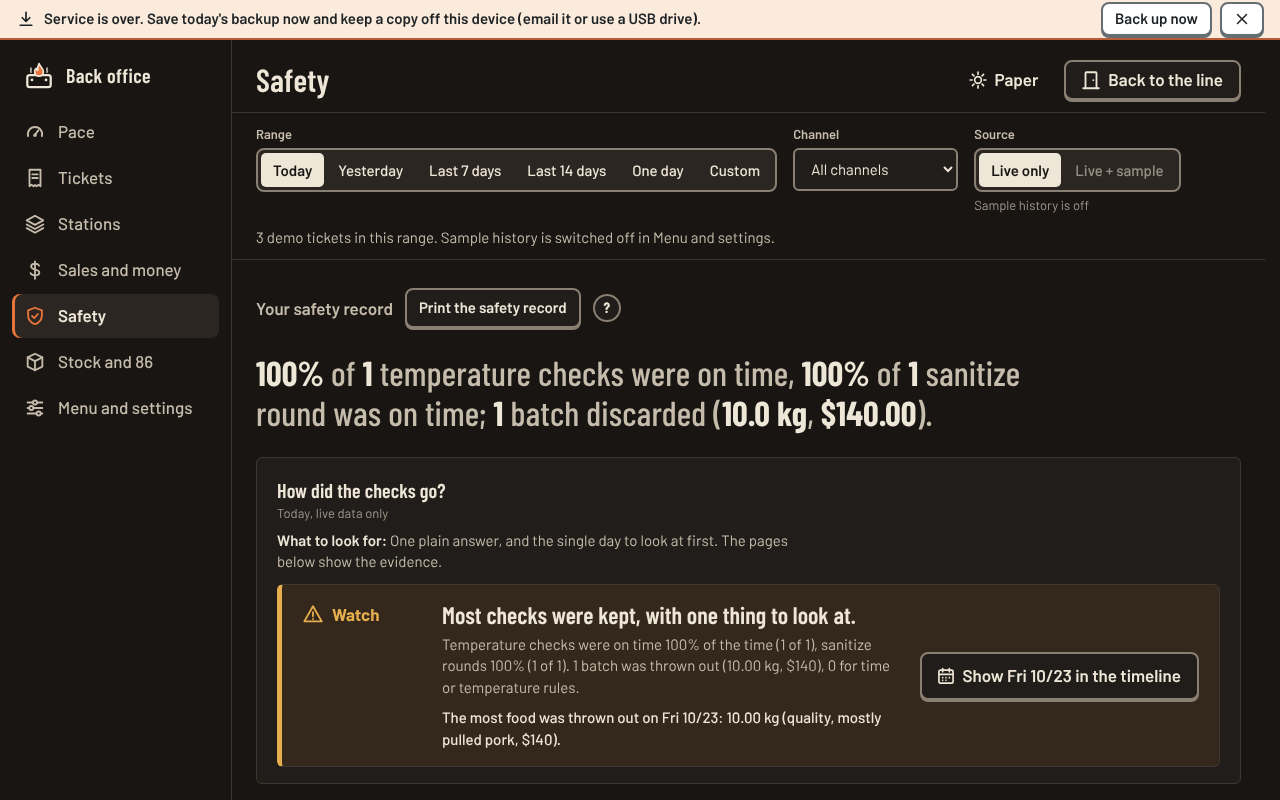
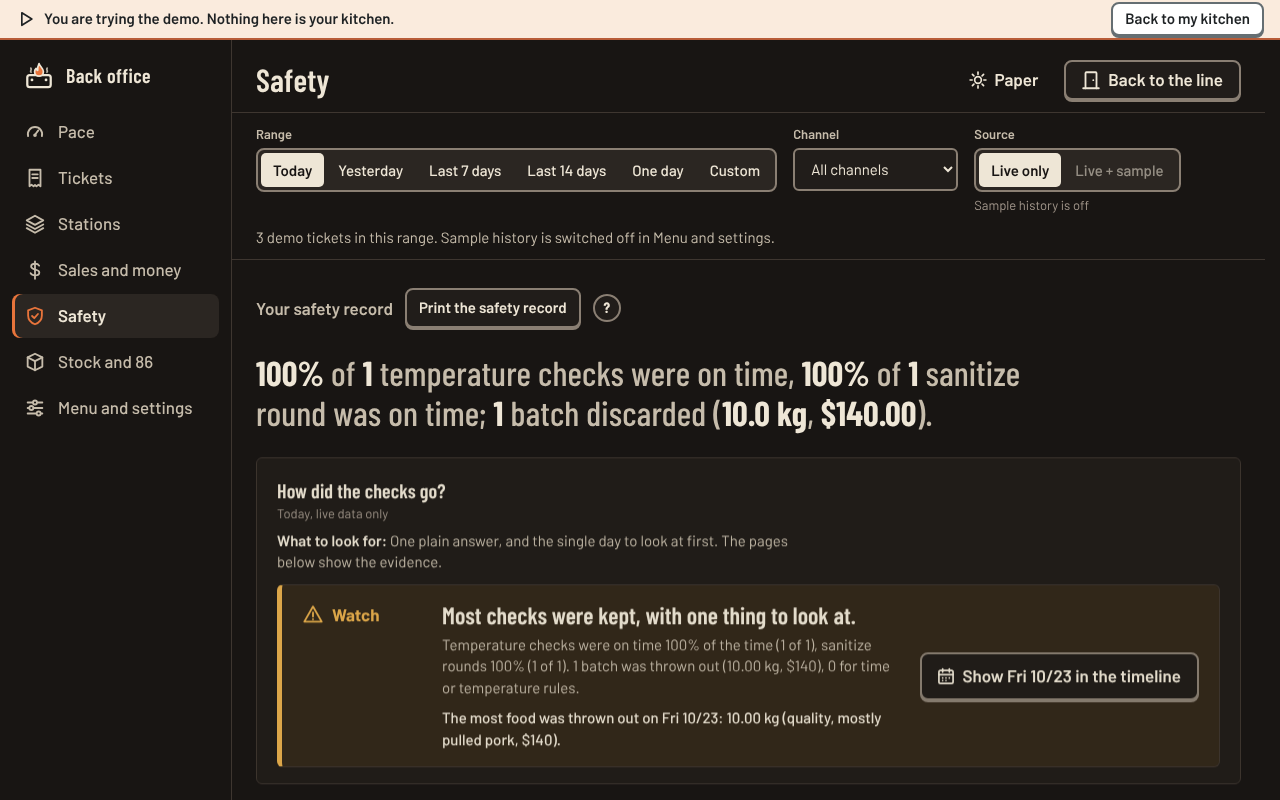
Back office round 7: owner's week fixes, sales CSV, weekday jump, colour-blind dashes, wording
Claude-Session: https://claude.ai/code/session_01JrpY4zjELL5yN4qv9BNMYQ

diff --git a/src/js/84-office-data.js b/src/js/84-office-data.js
@@ -471,7 +471,7 @@
         nameField, zoneField, catField,
         h('div', { class: 'od-item-actions' }, archChip, archBtn)),
       h('div', { class: 'od-item-grid' },
-        h('div', { class: 'od-block' }, price.el, h('div', { class: 'od-lab' }, 'How it is cooked'), trackSeg, h('p', { class: 'od-hint' }, 'One tap: done when it is plated, like tea or slaw. Start, then done: the cook taps Start, and Done when it is finished, like brisket or fries.')),
+        h('div', { class: 'od-block' }, price.el, h('div', { class: 'od-lab' }, 'How it is cooked'), trackSeg, h('p', { class: 'od-hint' }, 'One tap: done when it is plated, like a drink or a cold side. Start, then done: the cook taps Start, and Done when it is finished, like a roast or fries.')),
         h('div', { class: 'od-block' }, prep.el, confSeg, learnedEl),
         h('div', { class: 'od-block od-block-bom' }, bom.el)),
       status.el);
@@ -1535,6 +1535,18 @@
     const repRow = h('div', { class: 'od-actions od-csv' }, h('span', { class: 'od-lab od-inline' }, 'Pilot report'), whenSel, h('label', { class: 'od-inline' }, 'Cuts counted ', cutsIn),
       btn('Show report', { icon: 'receipt', cls: 'btn-sm', onClick: showReport }), btn('Download CSV', { icon: 'download', cls: 'btn-sm', onClick: saveReport }));
     repRow.dataset.pilot = 'report';
+    // Saves the sales-by-day file for an accountant: one row per day with sales, tax, tips and how it was paid.
+    async function downloadSalesCsv() {
+      const BPs = SB.office && SB.office.backupPure;
+      if (!BPs) { exStatus.bad('Could not make the sales file. Reload and try again.'); return; }
+      const s = stateNow();
+      const text = BPs.salesCsv(s, s.settings.service && s.settings.service.dayStartHour);
+      const fname = 'smokebox-sales-by-day' + (SB.store.mode && SB.store.mode() === 'demo' ? '-demo' : '') + '-' + todayKey() + '.csv';
+      const days = Math.max(0, text.split('\r\n').length - 3);
+      const res = await saveFile(fname, text, 'text/csv');
+      if (res.how === 'host' || res.how === 'browser') exStatus.ok((res.how === 'host' ? 'Saved ' : 'Download started: ') + fname + (days ? ' (' + days + ' ' + U.plural(days, 'day') + ' of sales).' : ': it has only the column names because no order has been paid yet.'));
+      else reportSave(res, fname, text, 'sales file');
+    }
     const csvBtns = [['tickets', 'Tickets'], ['items', 'Items'], ['orders', 'Orders'], ['events', 'Events'], ['batches', 'Batches']].map(([k, l]) => {
       // Each spreadsheet button downloads its own table.
       const b = btn(l, { icon: 'download', cls: 'btn-sm', onClick: () => downloadCsv(k, l.toLowerCase()) });
@@ -1542,6 +1554,9 @@
       b.dataset.csv = k;
       return b;
     });
+    const salesBtn = btn('Sales by day (for your accountant)', { icon: 'download', cls: 'btn-sm', onClick: downloadSalesCsv });
+    salesBtn.dataset.csv = 'sales';
+    csvBtns.unshift(salesBtn);
     // Says when the last backup was made on this device, so a stale one is easy to spot.
     const BP = SB.office && SB.office.backupPure;
     const lastLine = para('', 'od-p od-lastbackup');
@@ -1658,10 +1673,10 @@
     // Danger zone: two reset buttons, each opening a box that asks for a typed word before it will act.
     pn.body.appendChild(h('h3', { class: 'od-sub od-danger-h', id: undefined }, 'Danger zone: erase data'));
     const resetStatus = statusLine();
-    const keep = SB.ui.toggle({ label: 'Keep my dishes, settings and PIN when I clear live data', checked: true });
-    const resetLiveBtn = btn('Reset live data', { icon: 'trash', cls: 'btn-danger' });
+    const keep = SB.ui.toggle({ label: 'Keep my dishes, settings and PIN when I erase live data', checked: true });
+    const resetLiveBtn = btn('Erase live data', { icon: 'trash', cls: 'btn-danger' });
     resetLiveBtn.dataset.action = 'reset-live';
-    const resetAllBtn = btn('Reset everything', { icon: 'trash', cls: 'btn-danger' });
+    const resetAllBtn = btn('Erase everything', { icon: 'trash', cls: 'btn-danger' });
     resetAllBtn.dataset.action = 'reset-all';
     const dangerBox = h('div', { class: 'od-danger-box', hidden: true, role: 'group', 'aria-label': 'Confirm erasing data' });
     // Shows the confirm box: what will be erased, a field to type the word into, and a button that stays off until it matches.
@@ -1691,14 +1706,14 @@
     resetLiveBtn.addEventListener('click', () => {
       const s = stateNow(), k = keep.getValue();
       askTyped({
-        opener: resetLiveBtn, title: 'Clear live data?', word: 'RESET', label: 'Clear live data',
+        opener: resetLiveBtn, title: 'Erase live data?', word: 'ERASE', label: 'Erase live data',
         lines: ['This clears ' + U.fmtNum(s.tickets.length) + ' ' + U.plural(s.tickets.length, 'ticket') + ', ' + U.fmtNum(SB.engine.allEvents(s).length) + ' saved records and ' + U.fmtNum(s.batches.length) + ' ' + U.plural(s.batches.length, 'batch', 'batches') + ' on this device, including any practice orders, and sets the clock back to real time.',
           k ? 'Your dishes, ingredient edits, limits, pacing and PIN stay as they are.' : 'It also puts every setting, dish edit and the PIN back to the starter values.',
           'There is no undo. Back up first if you might want this data.'],
         // Clears the live data after the word was typed.
         run: () => {
           const rep = SB.store.resetLive({ keepSettings: k, starter: false });
-          if (rep === 'ok') { resetStatus.ok('Live data cleared. The board is empty' + (k ? '; your settings were kept.' : '; settings are back to the starter values.')); SB.ui.toast('Live data cleared.', { tone: 'ok' }); }
+          if (rep === 'ok') { resetStatus.ok('Live data erased. The board is empty' + (k ? '; your settings were kept.' : '; settings are back to the starter values.')); SB.ui.toast('Live data erased.', { tone: 'ok' }); }
           else resetStatus.bad(SB.engine.describe(rep, (SB.store.lastResult() || {}).info, (stateNow() || {}).settings));
         },
       });
@@ -1709,7 +1724,7 @@
       askTyped({
         opener: resetAllBtn, title: 'Erase everything on this device?', word: 'ERASE', label: 'Erase everything',
         lines: ['This erases everything Smokebox stored on this device: ' + U.fmtNum(s.tickets.length) + ' ' + U.plural(s.tickets.length, 'ticket') + ', ' + U.fmtNum(s.batches.length) + ' ' + U.plural(s.batches.length, 'batch', 'batches') + ', your dishes and ingredient edits, every setting and the PIN. The board starts empty.',
-          'Your Day or Night, Ember or Paper and text-size choices are kept.', 'There is no undo. Back up first if you might want any of it back.'],
+          'Your display choices (themes and text size) are kept.', 'There is no undo. Back up first if you might want any of it back.'],
         // Erases everything after the word was typed.
         run: () => {
           const rep = SB.store.reset();
@@ -1719,7 +1734,7 @@
       });
     });
     pn.body.append(
-      para('Clearing live data removes tickets, records and batches. Resetting everything also puts the dishes, ingredients and every setting back to the starter values. Neither can be undone, so back up first (card 1 above).', 'od-p'),
+      para('Erasing live data removes tickets, records and batches. Erasing everything also puts the dishes, ingredients and every setting back to the starter values. Neither can be undone, so back up first (card 1 above).', 'od-p'),
       h('div', { class: 'od-toggle-row' }, keep),
       h('div', { class: 'od-actions' }, resetLiveBtn, resetAllBtn), dangerBox, resetStatus.el);
 

diff --git a/src/js/88-office-backup.js b/src/js/88-office-backup.js
@@ -36,7 +36,7 @@
     const orders = Array.isArray(s.orders) ? s.orders.length : 0;
     const tickets = Array.isArray(s.tickets) ? s.tickets.length : 0;
     const mode = res.mode === 'demo' ? 'demo' : 'real';
-    const kindText = mode === 'demo' ? 'Practice kitchen (the demo)' : 'Your own kitchen';
+    const kindText = mode === 'demo' ? 'Demo kitchen' : 'Your own kitchen';
     const pin = s.settings && s.settings.office && s.settings.office.pinHash ? 'Set (this device will ask for it)' : 'Not set';
     const rows = [];
     if (isNum(res.savedAt)) rows.push(['Saved', U.fmtDateShort(U.dateKey(res.savedAt)) + ', ' + U.fmtTime(res.savedAt)]);
@@ -47,9 +47,42 @@
     rows.push(['Manager PIN', pin]);
     const wrongKitchen = !!storeMode && mode !== storeMode;
     const refusal = wrongKitchen
-      ? (mode === 'demo' ? 'This backup comes from the practice kitchen (the demo), not from your own kitchen, so it cannot be restored here.' : 'This backup comes from a real kitchen, so it cannot be restored into the practice kitchen.')
+      ? (mode === 'demo' ? 'This backup comes from the demo kitchen, not from your own kitchen, so it cannot be restored here.' : 'This backup comes from a real kitchen, so it cannot be restored into the demo kitchen.')
       : '';
     return { rows, wrongKitchen, kindText, refusal };
+  }
+
+
+  // Quotes one value for a CSV cell: wraps it in quotes when it holds a comma, quote or line break.
+  function csvCell(v) {
+    const t = v == null ? '' : String(v);
+    return /[",\n\r]/.test(t) ? '"' + t.replace(/"/g, '""') + '"' : t;
+  }
+  // Dollars as plain digits with two decimals ("12.40"), with no dollar sign or thousands commas, so a spreadsheet adds them up.
+  const plainMoney = (v) => (isNum(v) ? (Math.round(v * 100) / 100).toFixed(2) : '0.00');
+
+  // The sales-by-day CSV for an accountant, from the saved state: one row per service day with paid orders, then a Total row.
+  // Columns: Date, Orders paid, Sales (after discounts), Discounts given, Tax, Tips, Total collected, then collected by Cash, Card and Other.
+  // Paid orders count on the service day they were paid; voided and open orders are left out.
+  function salesCsv(state, dayStartHour) {
+    const dsh = isNum(dayStartHour) ? dayStartHour : U.DAY_START_HOUR;
+    const days = {};
+    const orders = state && Array.isArray(state.orders) ? state.orders : [];
+    orders.forEach((o) => {
+      if (!o || o.status !== 'paid' || !isNum(o.paidAt) || !o.totals) return;
+      const day = U.serviceDate(o.paidAt, dsh);
+      const d = days[day] || (days[day] = { orders: 0, sales: 0, discounts: 0, tax: 0, tips: 0, total: 0, cash: 0, card: 0, other: 0 });
+      const T = o.totals, tip = isNum(o.tip) ? o.tip : 0;
+      const collected = (isNum(T.total) ? T.total : 0) + tip;
+      d.orders++; d.sales += (T.subtotal || 0) - (T.discount || 0); d.discounts += T.discount || 0; d.tax += T.tax || 0; d.tips += tip; d.total += collected;
+      d[o.method === 'cash' ? 'cash' : o.method === 'card' ? 'card' : 'other'] += collected;
+    });
+    const head = ['Date', 'Orders paid', 'Sales (after discounts)', 'Discounts given', 'Tax', 'Tips', 'Total collected', 'Collected in cash', 'Collected by card', 'Collected other'];
+    const sum = { orders: 0, sales: 0, discounts: 0, tax: 0, tips: 0, total: 0, cash: 0, card: 0, other: 0 };
+    // One CSV line for a day or for the totals.
+    const line = (label, d) => [label, d.orders, plainMoney(d.sales), plainMoney(d.discounts), plainMoney(d.tax), plainMoney(d.tips), plainMoney(d.total), plainMoney(d.cash), plainMoney(d.card), plainMoney(d.other)].map(csvCell).join(',');
+    const rows = Object.keys(days).sort().map((k) => { Object.keys(sum).forEach((f) => { sum[f] += days[k][f]; }); return line(k, days[k]); });
+    return [head.map(csvCell).join(',')].concat(rows, rows.length ? [line('Total', sum)] : []).join('\r\n') + '\r\n';
   }
 
   // True when the typed text is the confirming word (any capitals, spaces around it ignored).
@@ -57,5 +90,5 @@
     return String(typed == null ? '' : typed).trim().toLowerCase() === String(word || 'reset').toLowerCase();
   }
 
-  O.backupPure = { backupFreshness, describeBackup, resetWordOk };
+  O.backupPure = { backupFreshness, describeBackup, resetWordOk, salesCsv };
 })(typeof globalThis !== 'undefined' ? globalThis : window);

diff --git a/src/js/50-charts.js b/src/js/50-charts.js
@@ -338,6 +338,14 @@
   const WD = ['Sun', 'Mon', 'Tue', 'Wed', 'Thu', 'Fri', 'Sat'];
   // Short date label such as "Fri 10/16".
   const dateShort = (ts) => { const d = new Date(ts); return WD[d.getDay()] + ' ' + (d.getMonth() + 1) + '/' + d.getDate(); };
+  // With three or more plain lines the colors alone are not enough for a colour-blind reader, so the third and fourth
+  // line get a dotted and a dashed pattern. Bands, areas, stacked charts and charts with fewer lines stay solid.
+  function autoDash(spec, s, i) {
+    const list = Array.isArray(spec.series) ? spec.series : [];
+    const plain = list.filter((x) => x && x.kind !== 'band' && !x.area).length;
+    if (spec.stacked || s.area || s.kind === 'band' || plain < 3) return null;
+    return [null, null, '2 4', '9 4'][i % 4];
+  }
   // Gram axis label: "850 g" below a thousand, "1.5 kg" from there.
   const fmtGAxis = (v) => (!isNum(v) ? '-' : U.units && U.units.weight === 'lb' && U.weightText ? U.weightText(v) : Math.abs(v) >= 1000 ? trim0((v / 1000).toFixed(1)) + ' kg' : Math.round(v) + ' g');
 
@@ -1011,7 +1019,7 @@
     const s = S('svg', { class: 'ch-sw', width: it.kind === 'line' ? 18 : 12, height: 12, viewBox: it.kind === 'line' ? '0 0 18 12' : '0 0 12 12', 'aria-hidden': 'true', focusable: 'false' });
     const fill = 'fill:' + it.css;
     if (it.kind === 'line') {
-      s.appendChild(S('line', { x1: 1, y1: 6, x2: 17, y2: 6, style: 'stroke:' + it.css + ';stroke-width:2;stroke-linecap:round', 'stroke-dasharray': it.dash ? '4 3' : null }));
+      s.appendChild(S('line', { x1: 1, y1: 6, x2: 17, y2: 6, style: 'stroke:' + it.css + ';stroke-width:2;stroke-linecap:round', 'stroke-dasharray': it.dash || null }));
       if (it.dot) s.appendChild(S('circle', { cx: 9, cy: 6, r: 3, style: fill + ';stroke:var(--ch-surface);stroke-width:1.5' }));
     } else if (it.kind === 'ring') {
       s.appendChild(S('circle', { cx: 6, cy: 6, r: 4, style: 'fill:var(--ch-surface);stroke:' + it.css + ';stroke-width:2' }));
@@ -1238,7 +1246,7 @@
       let sorted = true; for (let k = 1; k < pts.length; k++) if (pts[k].x < pts[k - 1].x) { sorted = false; break; }
       if (!sorted) pts.sort((a, b) => a.x - b.x);
       const id = s.id != null ? String(s.id) : 'series' + i;
-      return { id, name: s.name != null ? String(s.name) : id, key: st.key, css: st.css, area: !!s.area || !!spec.stacked, dash: !!s.dash, band, pts, hidden: chart.hidden.has(id), raw: s };
+      return { id, name: s.name != null ? String(s.name) : id, key: st.key, css: st.css, area: !!s.area || !!spec.stacked, dash: s.dash ? '6 4' : autoDash(spec, s, i), band, pts, hidden: chart.hidden.has(id), raw: s };
     });
     const vis = series.filter((s) => !s.hidden);
     const has = vis.some((s) => s.pts.some((p) => p.y != null));
@@ -1400,7 +1408,7 @@
           for (let i = 0; i < dx.length; i++) { if (dy[i] == null) flush(); else run.push([dx[i], dy[i]]); }
           flush();
         }
-        marks.appendChild(S('path', { d, class: 'ch-ln', style: 'stroke:' + s.css, 'stroke-dasharray': s.dash ? '6 4' : null }));
+        marks.appendChild(S('path', { d, class: 'ch-ln', style: 'stroke:' + s.css, 'stroke-dasharray': s.dash || null }));
         drawn.push({ s, xs, ys });
       });
     }
@@ -2006,7 +2014,7 @@
     }
     // overlay step outlines
     const go = S('g', { class: 'ch-g-ov ch-rv-right' });
-    visOv.forEach((o) => {
+    visOv.forEach((o, oi) => {
       let d = '';
       for (let i = 0; i < b.n; i++) {
         const x0 = r1(X(b.lo + i * b.binSize)), x1 = r1(X(b.lo + (i + 1) * b.binSize)), y = r1(Y(o.c[i]));
@@ -2014,7 +2022,7 @@
       }
       d += 'V' + r1(bot);
       go.appendChild(S('path', { d: d + 'Z', style: 'fill:' + o.s.css + ';fill-opacity:.1;stroke:none' }));
-      go.appendChild(S('path', { d: d.replace(/Z$/, ''), class: 'ch-ln', style: 'stroke:' + o.s.css + ';stroke-linejoin:miter' }));
+      go.appendChild(S('path', { d: d.replace(/Z$/, ''), class: 'ch-ln', style: 'stroke:' + o.s.css + ';stroke-linejoin:miter', 'stroke-dasharray': visOv.length >= 3 ? [null, null, '2 4', '9 4'][oi % 4] : null }));
     });
     svg.appendChild(go);
     drawRefLines(svg, chart, (spec.refLines || []).map((q) => (q.value == null && q.x != null ? Object.assign({}, q, { value: q.x }) : q)), { orient: 'v', scale: X, l, r, t: top, b: bot });

diff --git a/src/js/80-office-core.js b/src/js/80-office-core.js
@@ -273,10 +273,18 @@
     return p ? { id: p.id, from: p.from, to: p.to, label: p.label, fromKey: p.fromKey, toKey: p.toKey } : { id: 'today', from: nowMs() - DAY, to: nowMs() + 1, label: 'Today' };
   }
   // Where the filters start: Last 14 days with sample data when it is loaded, otherwise Today with live
-  // data only.
+  // data only (or the last 7 days when today has no tickets yet but the week does).
   function defaultFilters() {
     const sampleOk = sampleFlag() && sampleLoaded();
-    return sampleOk ? { range: presetRange('last14'), channel: 'all', source: 'all' } : { range: presetRange('today'), channel: 'all', source: 'live' };
+    if (sampleOk) return { range: presetRange('last14'), channel: 'all', source: 'all' };
+    // With nothing sold yet today but tickets in the past week, start on the last 7 days so the first screen is not empty.
+    try {
+      const tickets = (storeDataset(false).tickets || []), today = presetRange('today'), week = presetRange('last7');
+      // True when any ticket was created inside the range.
+      const inR = (r) => tickets.some((t) => t && isNum(t.createdAt) && t.createdAt >= r.from && t.createdAt < r.to);
+      if (!inR(today) && inR(week)) return { range: week, channel: 'all', source: 'live' };
+    } catch (e) { /* fall back to today */ }
+    return { range: presetRange('today'), channel: 'all', source: 'live' };
   }
 
   // Builds the ctx a page receives: filters, the data, the one shared metrics handle and a few helpers.
@@ -1025,7 +1033,22 @@
     const srcNote = h('span', { class: 'of-fnote', hidden: true });
 
     // The Day group only shows for Yesterday or One day, so the other filters fit on one row.
-    const dayGroup = h('div', { class: 'of-fg', hidden: true }, h('span', { class: 'of-fl' }, 'Day'), dayBox, dayErr);
+    // Seven weekday buttons: each jumps to the most recent such day (today counts once something was ordered), so "Friday" is one tap.
+    const wdRow = h('div', { class: 'of-wdrow', role: 'group', 'aria-label': 'Jump to a weekday' });
+    // Shows the most recent day with this weekday number (0 is Sunday), looking back up to a week.
+    const jumpWeekday = (wd) => {
+      const today = U.serviceDate(nowMs(), svcHour());
+      let todayHas = false;
+      try { todayHas = (storeDataset(false).tickets || []).some((t) => t && t.serviceDate === today); } catch (e) { todayHas = false; }
+      // Today only counts when something was ordered today; otherwise the same weekday last week is meant.
+      for (let i = todayHas ? 0 : 1; i < 8; i++) { const k = U.addDays(today, -i); if (U.weekday(k) === wd) { showDay(k, true); return; } }
+    };
+    [1, 2, 3, 4, 5, 6, 0].forEach((wd) => {
+      // Handles a tap on one weekday button.
+      const onTap = () => jumpWeekday(wd);
+      wdRow.appendChild(h('button', { type: 'button', class: 'btn btn-sm of-wd', onClick: onTap }, U.WEEKDAYS[wd]));
+    });
+    const dayGroup = h('div', { class: 'of-fg', hidden: true }, h('span', { class: 'of-fl' }, 'Day'), dayBox, wdRow, dayErr);
     body.append(
       h('div', { class: 'of-fg' }, h('span', { class: 'of-fl' }, 'Range'), rangeSeg),
       dayGroup,

diff --git a/src/js/82-office-money.js b/src/js/82-office-money.js
@@ -349,20 +349,6 @@
         previous: (p) => { const q = prevHandle(p); return q ? soldTotal(q) : null; } },
     ]);
 
-    /* ---------------------------------------------------------------- end of day */
-    page.panel({
-      span: 12, title: 'End of day', sub: 'When service is over',
-      // Builds the explanation and the button that opens the Close the day sheet.
-      render: (body) => {
-        const help = SB.guide && SB.guide.link ? SB.guide.link('closing-the-day', 'closing the day') : null;
-        body.append(h('p', { class: 'ob-text' }, 'Close the day when the last order is paid. You get today\'s totals by cash, card and other, a cash-in-the-drawer line, a backup button and a page to print.', help ? h('span', null, ' ', help) : null),
-          h('button', { type: 'button', class: 'btn btn-primary', 'data-k': 'close-day', onClick: () => { if (O.openCloseDay) O.openCloseDay(); } }, 'Close the day'));
-        // The address #/office/money?close=1 opens the sheet straight away.
-        if (O.maybeOpenCloseDay) O.maybeOpenCloseDay();
-        return {};
-      },
-    });
-
     /* ---------------------------------------------------------------- takings */
     page.section('Money collected', 'Sales are the food you sold after discounts. Add tax and tips and you get everything collected. Smokebox only records how an order was paid; it never charges a card.');
 
@@ -777,6 +763,20 @@
         paint();
         // update repaints from the live brisket cost; destroy removes the stepper listeners.
         return { update: () => paint(), destroy: () => { cleanups.splice(0).forEach((f) => f()); } };
+      },
+    });
+
+    /* ---------------------------------------------------------------- end of day */
+    page.panel({
+      span: 12, title: 'End of day', sub: 'When service is over',
+      // Builds the explanation and the button that opens the Close the day sheet.
+      render: (body) => {
+        const help = SB.guide && SB.guide.link ? SB.guide.link('closing-the-day', 'closing the day') : null;
+        body.append(h('p', { class: 'ob-text' }, 'Close the day when the last order is paid. You get today\'s totals by cash, card and other, a cash-in-the-drawer line, a backup button and a page to print.', help ? h('span', null, ' ', help) : null),
+          h('button', { type: 'button', class: 'btn btn-primary', 'data-k': 'close-day', onClick: () => { if (O.openCloseDay) O.openCloseDay(); } }, 'Close the day'));
+        // The address #/office/money?close=1 opens the sheet straight away.
+        if (O.maybeOpenCloseDay) O.maybeOpenCloseDay();
+        return {};
       },
     });
 

diff --git a/src/js/40-metrics.js b/src/js/40-metrics.js
@@ -1222,7 +1222,7 @@
       push(end, cur);
       const marks = arr(b.temps).filter((x) => x && num(x.t) && num(x.f)).map((x) => ({ at: x.t, label: Math.round(x.f) + 'F' }));
       for (const e of evs) if (e.type === 'batch_reheat') marks.push({ at: e.t, label: 'Reheat' + (num(e.f) ? ' to ' + Math.round(e.f) + 'F' : '') });
-      if (num(b.discardedAt)) marks.push({ at: b.discardedAt, label: 'Discarded' + (b.discardReason ? ' (' + b.discardReason + ')' : '') });
+      if (num(b.discardedAt)) marks.push({ at: b.discardedAt, label: 'Thrown out' + (b.discardReason ? ' (' + b.discardReason + ')' : '') });
       marks.sort((a, c) => a.at - c.at);
       res.rows.push({ batchId: b.id, label: b.label || b.id, ing: b.ing, name: im[b.ing] ? im[b.ing].name : b.ing, kind: b.kind || null, src: b.src || null, cookedG: num(b.cookedG) ? b.cookedG : null,
         remainingG: num(b.remainingG) ? b.remainingG : null, startMs: b.enteredAt, endMs: end, open, status: b.status || null, wasteG: num(b.wasteG) ? b.wasteG : null,
@@ -1764,7 +1764,7 @@
       }
       case 'safety': {
         const k = M.compliance(c); if (!k.tempChecks.count && !k.sanitize.count && !k.discards.count) return 'No food-safety records in this range yet.';
-        return (k.tempChecks.count ? pctTxt(k.tempChecks.onTimePct) + ' of ' + U.fmtNum(k.tempChecks.count) + ' temperature checks were on time' : 'No temperature checks logged') + (k.sanitize.count ? ', ' + pctTxt(k.sanitize.onTimePct) + ' of ' + U.fmtNum(k.sanitize.count) + ' sanitize ' + U.plural(k.sanitize.count, 'round was', 'rounds were') + ' on time' : '') + '; ' + (k.discards.count ? k.discards.count + ' ' + U.plural(k.discards.count, 'batch', 'batches') + ' discarded (' + kgTxt(k.discards.g) + ', ' + money(k.discards.cost) + ').' : 'nothing was discarded.');
+        return (k.tempChecks.count ? pctTxt(k.tempChecks.onTimePct) + ' of ' + U.fmtNum(k.tempChecks.count) + ' temperature checks were on time' : 'No temperature checks logged') + (k.sanitize.count ? ', ' + pctTxt(k.sanitize.onTimePct) + ' of ' + U.fmtNum(k.sanitize.count) + ' sanitize ' + U.plural(k.sanitize.count, 'round was', 'rounds were') + ' on time' : '') + '; ' + (k.discards.count ? k.discards.count + ' ' + U.plural(k.discards.count, 'batch', 'batches') + ' thrown out (' + kgTxt(k.discards.g) + ', ' + money(k.discards.cost) + ').' : 'nothing was discarded.');
       }
       case 'stock': {
         const so = M.sellOutClock(c), n = so.rows.length; if (!so.dayCount) return 'No sell-outs in this range yet.';

diff --git a/src/css/32-office-data.css b/src/css/32-office-data.css
@@ -283,7 +283,7 @@
 .od-danger-h { margin-top: var(--sp-8, 40px); color: var(--crimson, #c0392b); }
 .od-danger-box { display: grid; gap: var(--sp-2); padding: var(--sp-4); border: 2px solid var(--crimson, #c0392b); border-radius: var(--r-3, 12px); max-width: 40em; }
 .od-danger-t { display: flex; gap: var(--sp-2); align-items: center; margin: 0; color: var(--crimson, #c0392b); }
-.od-danger-l { display: flex; flex-wrap: wrap; align-items: baseline; gap: 4px; font-weight: var(--w-semi); }
+.od-danger-l { display: flex; flex-wrap: wrap; align-items: baseline; gap: 4px 10px; font-weight: var(--w-semi); }
 .od-danger-l input { flex: 1 0 100%; }
 .od-danger-in { max-width: 14em; }
 @media (min-width: 1700px) { .od-flow { grid-template-columns: repeat(3, minmax(0, 1fr)); } }

diff --git a/src/js/89-office-inspector.js b/src/js/89-office-inspector.js
@@ -15,7 +15,7 @@
   const isNum = (n) => typeof n === 'number' && isFinite(n);
   const KIND = {
     temp_logged: 'Temperature reading', batch_reheat: 'Reheated', batch_discard: 'Thrown out', cooling_started: 'Cooling started',
-    sanitize_done: 'Sanitized surfaces', quality_extend: 'Kept past best-by', quality_extend_corrected: 'Best-by note corrected',
+    sanitize_done: 'Sanitized surfaces', quality_extend: 'Kept serving past its quality limit', quality_extend_corrected: 'Quality-limit note corrected',
   };
   const REASON = { expired: 'Expired', quality: 'Quality', temp: 'Temperature', cooling: 'Cooling', manual: 'Other', other: 'Other' };
 

diff --git a/src/js/78-guide.js b/src/js/78-guide.js
@@ -458,7 +458,7 @@
      },
      {
       "t": "p",
-      "x": "The Danger zone has **Reset live data** and **Reset everything**. Each one asks you to type a word first, so it cannot happen by accident. Back up before you use either."
+      "x": "The Danger zone has **Erase live data** and **Erase everything**. Each one asks you to type a word first, so it cannot happen by accident. Back up before you use either."
      }
     ]
    },

diff --git a/src/css/30-office.css b/src/css/30-office.css
@@ -366,3 +366,5 @@ a.of-nav:active { background: var(--press); }
 
 @media (max-width: 1100px) { .of-nav-off { display: none; } }
 .of-page[data-coach="on"] > .of-headline { display: none; }
+.of-wdrow { display: flex; flex-wrap: wrap; gap: 4px; margin-top: 6px; }
+.of .of-wd { min-height: 34px; padding: 0 10px; }

diff --git a/docs/audit/office.md b/docs/audit/office.md
@@ -123,3 +123,22 @@ Screenshots: `docs/ux-shots/night/a3/r6-*` (Close the day open, ready and done a
 - **Themes and contrast.** A script walked every text element on all seven pages in Ember and Paper (demo data, extra charts open) and found no text under 4.5:1 (3:1 for large text). Keyboard focus rings are 3 px and solid in both themes (light on Ember, near-black on Paper). Status colors always come with an icon and a word; charts use an orange and blue pair with dashes and labels. Print pages are black on white. Not measured: UI-component 3:1 for every chart mark, and color-blind simulation of every chart.
 - **Keyboard and screen reader.** Tab order on the Data page runs top to bottom; the typed-word box describes what will be erased (aria-describedby), takes focus when it opens, closes on Escape and returns focus to the button that opened it; the Close the day leftover choice is a labeled radio group; the done state moves focus to "The day is closed."; backup and restore results are polite status messages and refusals are alerts; the show-more button has aria-expanded. The Orders footer's Close the day button opens the sheet (browser check `test/office-closeday.e2e.mjs`). No screen reader was run.
 - Rail words "Not tracking" are hidden below 1100 px wide.
+
+---
+
+## Round 7 update (branch night/a3-r7): the owner's week
+
+Method: a three-week history for a blank own kitchen (12 own dishes, no ingredients, cook-ahead off: 403 orders over 21 days, with Friday and Saturday busiest and a peak slowdown at lunch and dinner) was generated with the real engine (scratch script, not committed) and loaded into the real kitchen; the barbecue demo (`?demo`, 14 sample days, cook-ahead on) stood in for the cook-ahead kitchen, since the simulator only makes that one. Pages were walked with owner questions. Screenshots: `docs/ux-shots/night/a3/r7-*`.
+
+Found and fixed:
+- **First screen was empty on a normal morning.** With nothing ordered yet today the office opened on "Today" and every page said there was nothing, although three weeks of data existed. It now starts on the last 7 days when today has no tickets but the week does (`defaultFilters`). "What did I take this week" is now one tap (Sales and money) and reads "$2,558 was collected, $122 of it tips".
+- **"What sold best Friday"** took the Range buttons, the date box and typing. One day now shows seven weekday buttons (Mon to Sun) that jump to the latest such day (today only counts if something was ordered today). Sales, then One day, then Fri: three taps, and the page shows that day's sales, payment mix and top items.
+- **The End of day card sat above the charts** and pushed Top items off the first screen; it is now at the bottom of Sales and money (the Close the day button on the Orders sheet is unchanged).
+- "When was I slowest", "was a station behind": answered by the headline on Tickets ("1 to 2 pm is the slowest hour at a median of 16m 07s") and Stations ("Pit finished last on 63% of tickets") in one tap, on the new default range.
+- "How much did I throw away": Safety and Stock correctly say "Not tracking" for the blank kitchen; in the demo the Safety headline now says "thrown out" instead of "discarded" (`40-metrics.js`), and the timeline mark reads "Thrown out".
+- **Sales CSV for an accountant** (Data page, Spreadsheet files group, first button "Sales by day (for your accountant)"). One row per service day with plain column names: Date, Orders paid, Sales (after discounts), Discounts given, Tax, Tips, Total collected, Collected in cash, Collected by card, Collected other; then a Total row; plain digits with two decimals and no dollar signs so a spreadsheet adds them up; demo files carry `-demo` in the name. Tested in `test/office-inspector.test.mjs`.
+- **Colour-blind check.** A simulation of the 8 series colors and the 4 status colors (protan, deutan, tritan, Ember and Paper) shows several close pairs (orange and brass under protan, slate and violet, ok and bad under deutan). Status colors always carry a glyph and a word. Charts with three or more plain lines now give the third and fourth a dotted and a dashed pattern, as do the histogram outlines, so no mark relies on color alone; two-series charts, stacked areas and bars still rely on legends and direct labels. Legend samples for the histogram outlines are still solid lines.
+- **Re-checked:** inspector sheet in Paper at 1920, the erase box in Paper at 1920 (its label touched the field; spaced), all seven office pages at 390 in Ember and Paper with the week data (no sideways scroll).
+- **Wording:** one verb for each Data page erase action (Erase live data, Erase everything, in the buttons, boxes, toggle and Guide); the confirm sentence no longer names themes; "Practice kitchen (the demo)" is now "Demo kitchen"; dish-row examples are neutral; "quality limit" kept where the cabinet says it (inspector labels "Kept serving past its quality limit").
+
+Left: charts in black and white print (only the two print pages are print-styled); Legend dash samples for histograms; a weekday sales chart; Friday's busiest dish still needs the page scroll to Top items.

diff --git a/docs/sop/08-backup-and-restore.md b/docs/sop/08-backup-and-restore.md
@@ -21,4 +21,4 @@ A file that is not a valid backup is refused, and nothing is changed. A backup f
 
 ## Erasing
 
-The Danger zone has **Reset live data** and **Reset everything**. Each one asks you to type a word first, so it cannot happen by accident. Back up before you use either.
+The Danger zone has **Erase live data** and **Erase everything**. Each one asks you to type a word first, so it cannot happen by accident. Back up before you use either.
